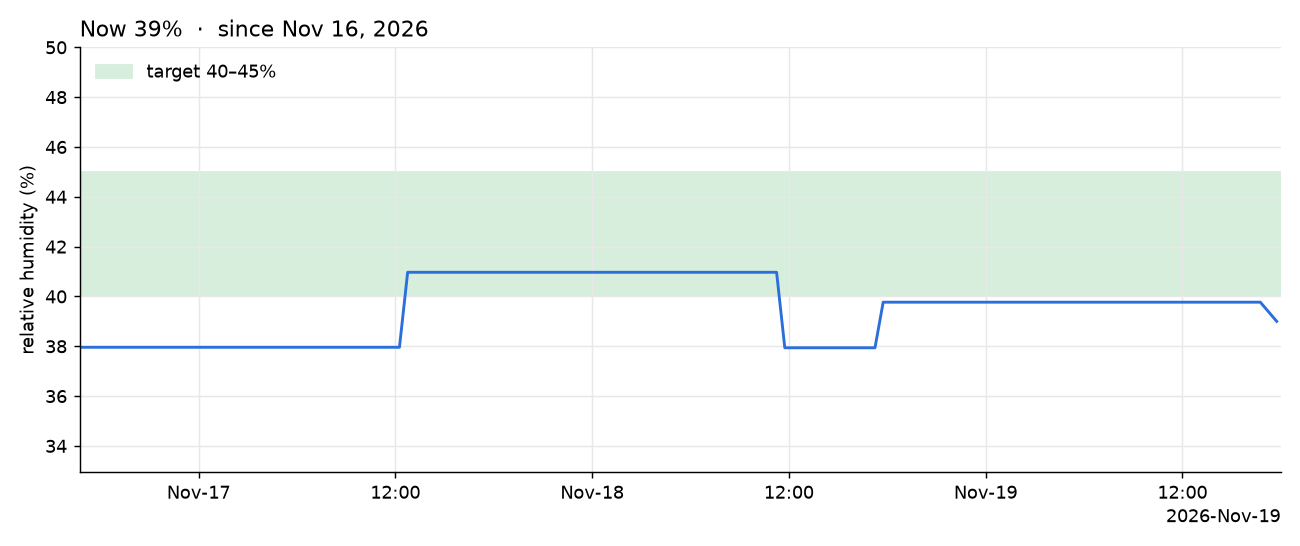
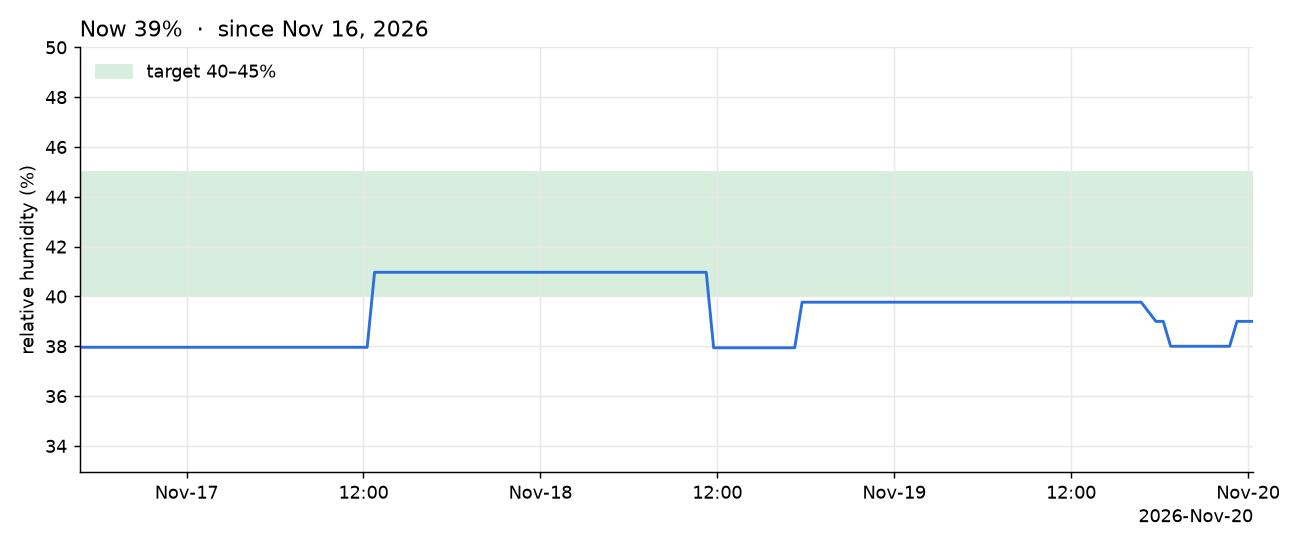
Daily update 2026-11-20

diff --git a/index.html b/index.html
@@ -13,10 +13,10 @@ img{width:100%;height:auto;display:block;border-radius:6px;background:#fff}
 footer{color:var(--muted);font-size:13px}
 </style></head><body><main>
 <h1>Home</h1>
-<p class="sub">Updated daily; last update Nov 19, 2026 5:58 PM.</p>
-<section><h2>Piano humidity</h2><img src="piano-humidity.png?v=202611191758" alt="Humidity at the piano since the sensor was installed, with the 40 to 45 percent target band"></section>
+<p class="sub">Updated daily; last update Nov 20, 2026 12:20 AM.</p>
+<section><h2>Piano humidity</h2><img src="piano-humidity.png?v=202611200020" alt="Humidity at the piano since the sensor was installed, with the 40 to 45 percent target band"></section>
 <h1>Outdoor light</h1>
 <p class="sub">Light level outside, one line per day, each month on its own chart.</p>
-<section><h2>November 2026</h2><img src="2026-11.png?v=20261119" alt="Outdoor light in November 2026, one line per day"></section>
+<section><h2>November 2026</h2><img src="2026-11.png?v=20261120" alt="Outdoor light in November 2026, one line per day"></section>
 <footer>Humidity: a sensor at the piano, shown as the 30-minute median. Light: measured by an outdoor light sensor, every few minutes, shown as the 10-minute median. The scale is logarithmic: each gridline is ten times brighter than the one below.</footer>
 </main></body></html>
